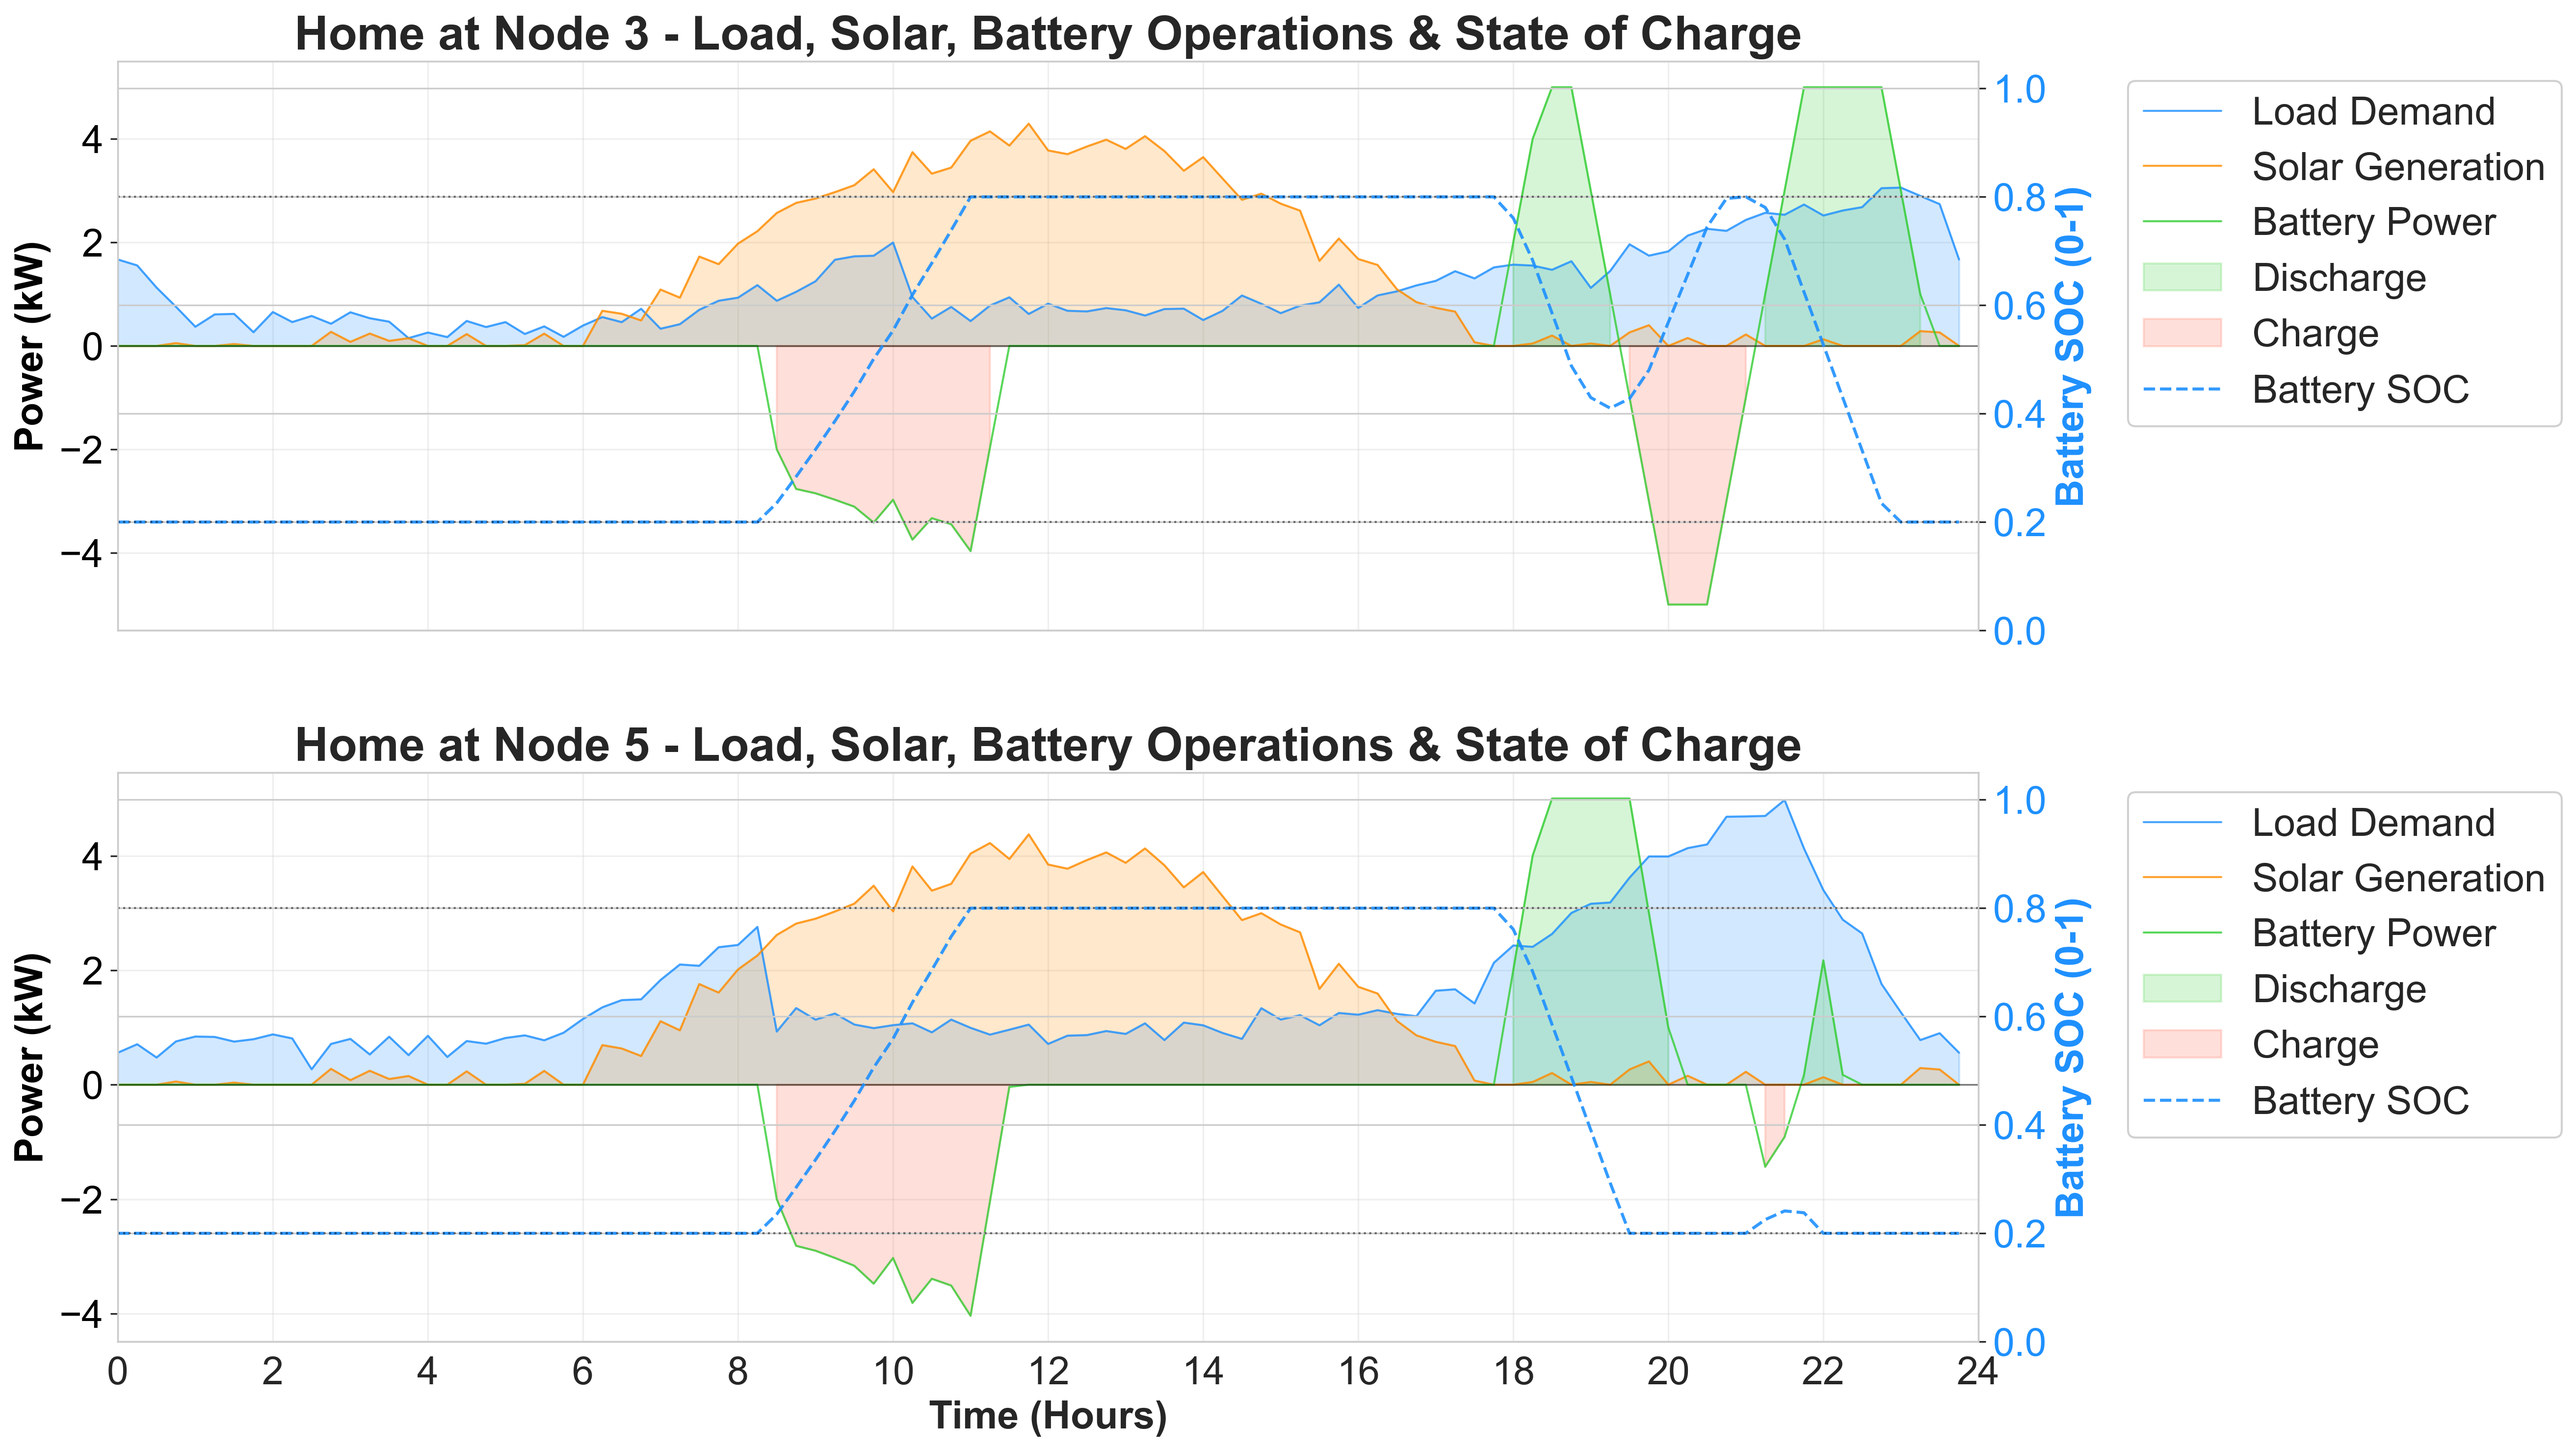
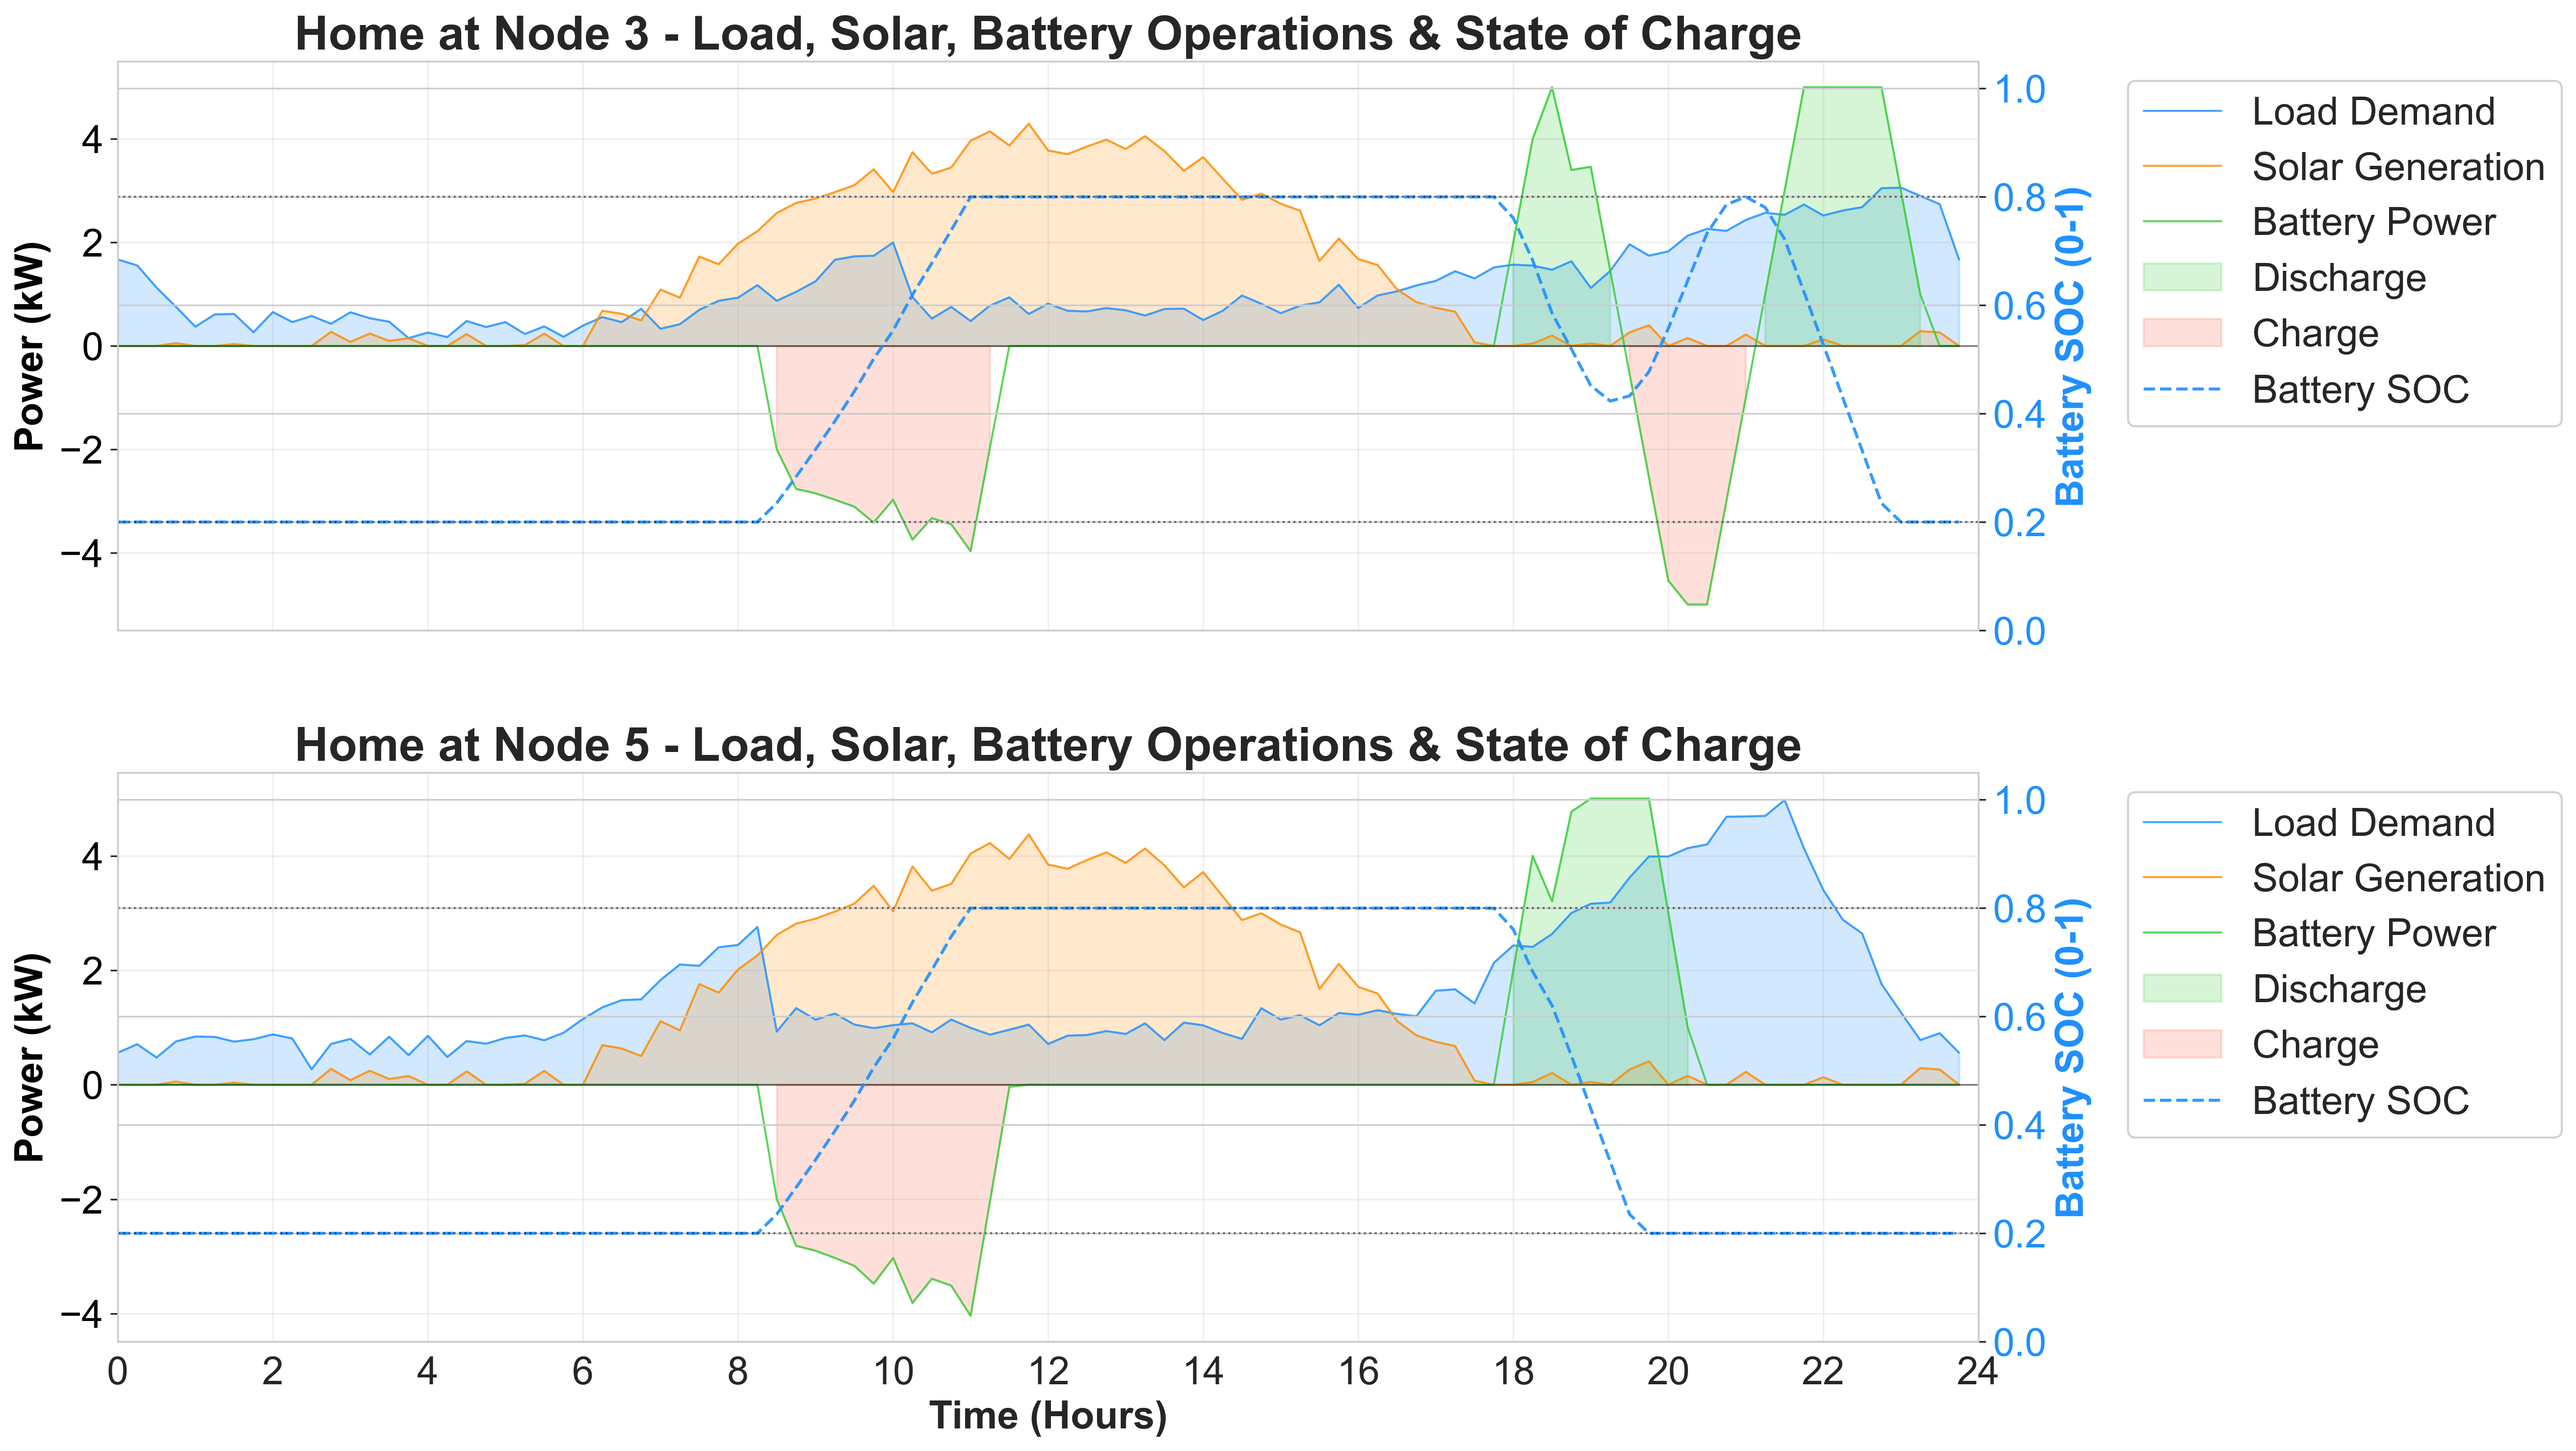
smooth curve

diff --git a/RL_agent/vpp_env.py b/RL_agent/vpp_env.py
@@ -81,6 +81,7 @@ class UrbanVPPEnv(gym.Env):
         self.max_steps = 96
         self.soc = np.ones(self.n_storage_units) * 0.5 
         self.prev_batt_power = np.zeros(self.n_storage_units)
+        self.prev_grid_net_power = 0.0  # Track previous grid net import/export for smoothing
         # We need 22 voltage values internally (for 3-phase monitoring)
         self.voltages = np.ones(self.n_nodes, dtype=np.float32)      # Min voltage per bus (RL sees this)
         self.voltages_min = np.ones(self.n_nodes, dtype=np.float32)  # For undervoltage checking
@@ -221,6 +222,7 @@ class UrbanVPPEnv(gym.Env):
         #self.soc = np.random.uniform(0.3, 0.7, size=3)
         self.soc = np.full(3, 0.2)
         self.prev_batt_power = np.zeros(self.n_storage_units)
+        self.prev_grid_net_power = 0.0  # Reset grid tracking
         # Reset voltages to 1.0 p.u. (nominal)
         self.voltages = np.ones(self.n_nodes, dtype=np.float32)
         self.voltages_min = np.ones(self.n_nodes, dtype=np.float32)
@@ -535,6 +537,14 @@ class UrbanVPPEnv(gym.Env):
             # Ensure final power doesn't exceed physical limits
             final_power = np.clip(final_power, -p_max, p_max)
             
+            # NEW: Final voltage safety check - if BESS and discharge, verify voltage won't drop too far
+            if is_bess and final_power > 0 and self.voltages[self.bess_index] < 0.99:
+                # Voltage already low - reduce discharge further as final safeguard
+                voltage_factor = max(0.2, min(1.0, (self.voltages[self.bess_index] - 0.94) / (0.99 - 0.94)))
+                final_power = final_power * voltage_factor
+                if self.verbose and voltage_factor < 1.0:
+                    print(f"[VOLTAGE_SAFETY_CHECK] BESS voltage {self.voltages[self.bess_index]:.4f}p.u., reduced discharge to {final_power:.1f}kW (factor {voltage_factor:.1%})")
+            
             # Update SoC (0.25 hour = 15 min timestep)
             eff = 0.95
             if final_power >= 0:  # Discharging
@@ -773,6 +783,30 @@ class UrbanVPPEnv(gym.Env):
                     else:
                         offpeak_bonus += -10.0 * bess_charge_power
 
+        # NEW: Grid Import/Export Smoothing Penalty
+        # Penalize rapid changes in grid flows to stabilize the grid
+        # Calculate current grid net power (positive = export to grid, negative = import from grid)
+        current_grid_net = np.sum(self.net_injection)  # Positive = injection, Negative = withdrawal
+        
+        # Calculate change from previous step (per 15-min interval)
+        grid_power_change = abs(current_grid_net - self.prev_grid_net_power)
+        
+        # Penalize large ramps in grid power (smoothing penalty)
+        # Allow reasonable ramps (3 kW per 15 min) without penalty
+        ramp_threshold = 3.0  # kW per 15-min step is reasonable
+        if grid_power_change > ramp_threshold:
+            # Excess ramp beyond threshold gets penalized
+            excess_ramp = grid_power_change - ramp_threshold
+            # Quadratic penalty: larger ramps are progressively more penalized
+            grid_smoothing_penalty = -0.5 * (excess_ramp ** 2)
+            if self.verbose:
+                print(f"[GRID_SMOOTHING] Hour {hour:.1f}: Grid power changed {grid_power_change:.2f}kW (was {self.prev_grid_net_power:.1f}, now {current_grid_net:.1f}) → Penalty {grid_smoothing_penalty:.1f}")
+        else:
+            grid_smoothing_penalty = 0.0
+        
+        # Store current grid net power for next step comparison
+        self.prev_grid_net_power = current_grid_net
+
         # B. Voltage Violation Penalty (0.94 to 1.06 p.u. limits)
         # Monitor all nodes for grid safety compliance (3-phase aware)
         critical_nodes = list(range(21)) + [self.bess_index]
@@ -830,6 +864,7 @@ class UrbanVPPEnv(gym.Env):
                   + solar_waste_penalty           # NEW: Penalize wasted solar exports
                   + peak_bonus                    # Peak discharge (6pm-11pm)
                   + offpeak_bonus                 # Off-peak charging (11pm-6am)
+                  + grid_smoothing_penalty        # NEW: Penalize rapid grid power changes
                   + cycling_cost
                   + soc_health_penalty)
         
@@ -869,7 +904,10 @@ class UrbanVPPEnv(gym.Env):
             "soc_home5": self.soc[1],
             "soc_bess": self.soc[2],
             "bess_power": self.node_battery_power_kw[self.bess_index],
-            "voltage_penalty": voltage_penalty
+            "voltage_penalty": voltage_penalty,
+            "grid_smoothing_penalty": grid_smoothing_penalty,
+            "grid_power_change": grid_power_change,
+            "current_grid_net": current_grid_net
         }
 
         return obs, float(reward), terminated, truncated, info
